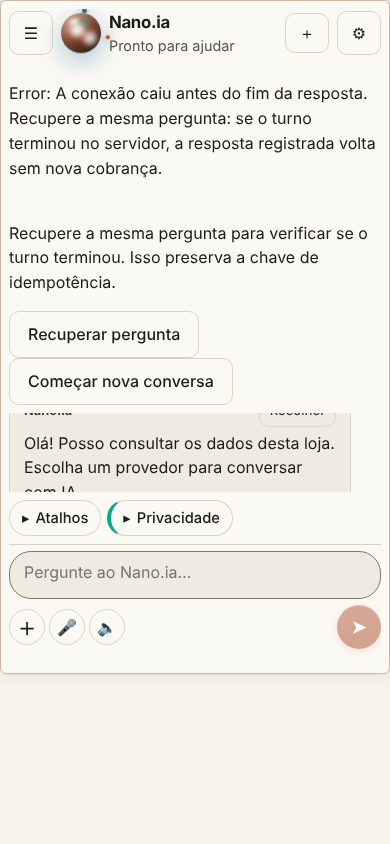
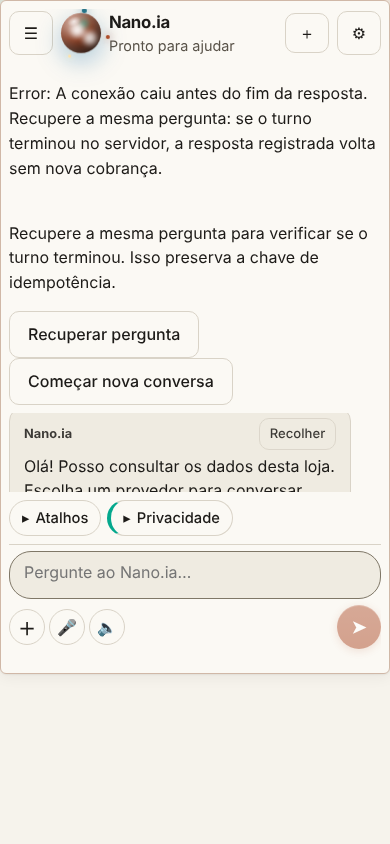
design(nano): proposta em uma linha compacta no chat (#166, B2b)
Pedido do proprietário: nada de cartão grande dentro do chat. A proposta
vira uma linha discreta (ícone, título, ponto de risco, "Ver") e o cartão
completo, lido do banco, só carrega quando o lojista abre.

Claude-Session: https://claude.ai/code/session_01YDBbauhHfrHxyjuFGGeXfk

Changed region(s): [[0.0615, 0.4929, 0.8615, 0.5853]]

diff --git a/painel/src/styles.css b/painel/src/styles.css
@@ -323,3 +323,19 @@ fieldset { border:1px solid var(--borda); border-radius:var(--raio); padding:10p
 [data-tema="contraste"] .cartao, [data-tema="contraste"] button.sec, [data-tema="contraste"] .selo { border-width:2px; }
 [data-tema="contraste"] button:focus-visible, [data-tema="contraste"] a:focus-visible, [data-tema="contraste"] input:focus, [data-tema="contraste"] textarea:focus, [data-tema="contraste"] select:focus { outline:4px solid var(--ciano); outline-offset:3px; }
 [data-tema="contraste"] .menu a.ativo, html[data-tema="contraste"] .dock-trilho button.dock-aba[aria-selected="true"] { background:var(--marca); color:var(--marca-texto); box-shadow:none; }
+
+/* Issue #166 (B2b): proposta no chat em uma linha discreta; os detalhes abrem sob demanda. */
+.proposta-compacta { margin:4px 0 10px; max-width:min(100%,560px); }
+.proposta-compacta > summary { display:flex; align-items:center; gap:8px; min-height:36px; padding:6px 10px; list-style:none; cursor:pointer;
+  border:1px solid var(--borda); border-radius:10px; background:var(--cartao); font-size:.85rem; color:var(--suave); }
+.proposta-compacta > summary::-webkit-details-marker { display:none; }
+.proposta-compacta > summary:hover { border-color:var(--marca); color:inherit; }
+.proposta-compacta > summary:focus-visible { outline:2px solid var(--verde); outline-offset:2px; }
+.proposta-compacta-titulo { flex:1; min-width:0; overflow:hidden; text-overflow:ellipsis; white-space:nowrap; color:var(--texto); font-weight:600; }
+.proposta-compacta-risco { display:inline-flex; align-items:center; gap:4px; font-size:.75rem; }
+.proposta-compacta-risco i { width:7px; height:7px; border-radius:50%; background:currentColor; }
+.proposta-compacta-risco.ok { color:var(--ok); } .proposta-compacta-risco.atencao { color:var(--atencao); } .proposta-compacta-risco.erro { color:var(--erro); }
+.proposta-compacta-ver { font-size:.75rem; color:var(--marca); }
+.proposta-compacta[open] .proposta-compacta-ver::after { content:" ▴"; }
+.proposta-compacta:not([open]) .proposta-compacta-ver::after { content:" ▾"; }
+.proposta-compacta > .cartao-ia { margin-top:6px; box-shadow:none; border-color:var(--borda); }

diff --git a/painel/src/paginas/Assistente.tsx b/painel/src/paginas/Assistente.tsx
@@ -12,7 +12,7 @@ import { CHAT_ACEITA, CHAT_MAX_ANEXOS, prepararArquivo, rotuloBytes, validarSele
 import { gravarConversaAtiva, lerConversaAtiva } from "../lib/conversaAtiva.ts";
 import { perguntarComStreaming, propostasDoTurno, type PropostaTurno } from "../lib/streamAssistente.ts";
 import { useFonte } from "../lib/useFonte.ts";
-import { CartaoProposta } from "../componentes/conector/CartaoProposta.tsx";
+import { PropostaCompacta } from "../componentes/conector/PropostaCompacta.tsx";
 import { escolherInicial, erroAssistente, ESTADO_PROVEDOR, type OpcaoProvedor, type ProvedorChat } from "../lib/provedores.ts";
 
 type Evidencia = { origem: string; simulado: boolean; consultado_em: string; sincronizado_em?: string; motivo?: string; dados: { sku?: string; nome?: string; preco?: number | null; estoque?: number | null } };
@@ -313,7 +313,7 @@ export function Assistente({ loja, menu, aoNavegar }: { loja: Loja; menu?: Item[
       <div className="chat" style={{ flex: "1 1 auto", minHeight: 0, minWidth: 0, overflowY: "auto", overflowX: "hidden" }} aria-live="polite">{msgs.map((m, i) => (
         <div key={i}>
           <MensagemRetratil m={m.parcial && !m.texto ? { ...m, texto: "Escrevendo…" } : m} recolhida={!m.parcial && mensagemRecolhida(i, msgs.length, abertas, modoMsgs)} onAlternar={() => alternarMsg(i)} />
-          {fonte && m.propostas?.map((p) => <CartaoProposta key={p.id} propostaId={p.id} fonte={fonte} lojaId={loja.id} />)}
+          {m.propostas?.map((p) => <PropostaCompacta key={p.id} p={p} fonte={fonte} lojaId={loja.id} />)}
         </div>
       ))}<div ref={fim} /></div>
       <div className="barra-extras">

diff --git a/painel/src/componentes/conector/PropostaCompacta.tsx b/painel/src/componentes/conector/PropostaCompacta.tsx
@@ -1,0 +1,24 @@
+import type { FonteDados } from "../../lib/conectorDados.ts";
+import type { PropostaTurno, RiscoTurno } from "../../lib/streamAssistente.ts";
+import { Icone } from "../Icone.tsx";
+import { CartaoProposta } from "./CartaoProposta.tsx";
+
+const RISCO: Record<RiscoTurno, { classe: string; texto: string }> = {
+  LOW: { classe: "ok", texto: "baixo" }, MEDIUM: { classe: "atencao", texto: "médio" }, HIGH: { classe: "erro", texto: "alto" }, CRITICAL: { classe: "erro", texto: "crítico" },
+};
+
+/** Proposta no chat em UMA linha discreta; os detalhes (lidos do banco) só carregam quando o lojista abre. */
+export function PropostaCompacta({ p, fonte, lojaId }: { p: PropostaTurno; fonte: FonteDados | null; lojaId: string }) {
+  const r = p.risco ? RISCO[p.risco] : null;
+  return (
+    <details className="proposta-compacta">
+      <summary aria-label={`Proposta para aprovar: ${p.titulo ?? "sem título"}${r ? `, risco ${r.texto}` : ""}`}>
+        <Icone nome="escudo" tamanho={14} />
+        <span className="proposta-compacta-titulo">{p.titulo ?? "Proposta para aprovar"}</span>
+        {r && <span className={`proposta-compacta-risco ${r.classe}`} title={`Risco ${r.texto}`}><i aria-hidden="true" />{r.texto}</span>}
+        <span className="proposta-compacta-ver">Ver</span>
+      </summary>
+      {fonte ? <CartaoProposta propostaId={p.id} fonte={fonte} lojaId={lojaId} /> : <p className="suave">Carregando…</p>}
+    </details>
+  );
+}

diff --git a/painel/src/lib/streamAssistente.ts b/painel/src/lib/streamAssistente.ts
@@ -43,7 +43,9 @@ export async function perguntarComStreaming(corpo: Record<string, unknown>, toke
 }
 
 /** Propostas devolvidas pelo turno (metadados.propostas): só ids válidos; o cartão lê o resto do banco, nunca do texto do modelo. */
-export interface PropostaTurno { id: string; titulo?: string }
+export type RiscoTurno = "LOW" | "MEDIUM" | "HIGH" | "CRITICAL";
+export interface PropostaTurno { id: string; titulo?: string; risco?: RiscoTurno }
+const RISCOS: readonly string[] = ["LOW", "MEDIUM", "HIGH", "CRITICAL"];
 const UUID = /^[0-9a-f]{8}-[0-9a-f]{4}-[0-9a-f]{4}-[0-9a-f]{4}-[0-9a-f]{12}$/i;
 export function propostasDoTurno(v: unknown): PropostaTurno[] {
   if (!Array.isArray(v)) return [];
@@ -52,7 +54,7 @@ export function propostasDoTurno(v: unknown): PropostaTurno[] {
     const id = p && typeof p === "object" ? (p as { id?: unknown }).id : undefined;
     if (typeof id !== "string" || !UUID.test(id) || vistos.has(id)) return [];
     vistos.add(id);
-    const t = (p as { titulo?: unknown }).titulo;
-    return [{ id, ...(typeof t === "string" ? { titulo: t.slice(0, 200) } : {}) }];
+    const t = (p as { titulo?: unknown }).titulo, r = (p as { risco?: unknown }).risco;
+    return [{ id, ...(typeof t === "string" ? { titulo: t.slice(0, 200) } : {}), ...(typeof r === "string" && RISCOS.includes(r) ? { risco: r as RiscoTurno } : {}) }];
   }).slice(0, 10);
 }

diff --git a/painel/src/lib/streamAssistente.test.ts b/painel/src/lib/streamAssistente.test.ts
@@ -52,4 +52,5 @@ test("propostasDoTurno: só ids UUID, sem duplicar, no máximo 10, título curto
   const a = "11111111-2222-4333-8444-555555555555";
   assert.deepEqual(propostasDoTurno([{ id: a, titulo: "Trocar categoria" }, { id: a }, { id: "x" }, null, { titulo: "sem id" }]), [{ id: a, titulo: "Trocar categoria" }]);
   assert.deepEqual(propostasDoTurno(undefined), []);
+  assert.deepEqual(propostasDoTurno([{ id: a, risco: "HIGH" }, { id: "22222222-2222-4333-8444-555555555555", risco: "ALTO" }]), [{ id: a, risco: "HIGH" }, { id: "22222222-2222-4333-8444-555555555555" }]);
 });
